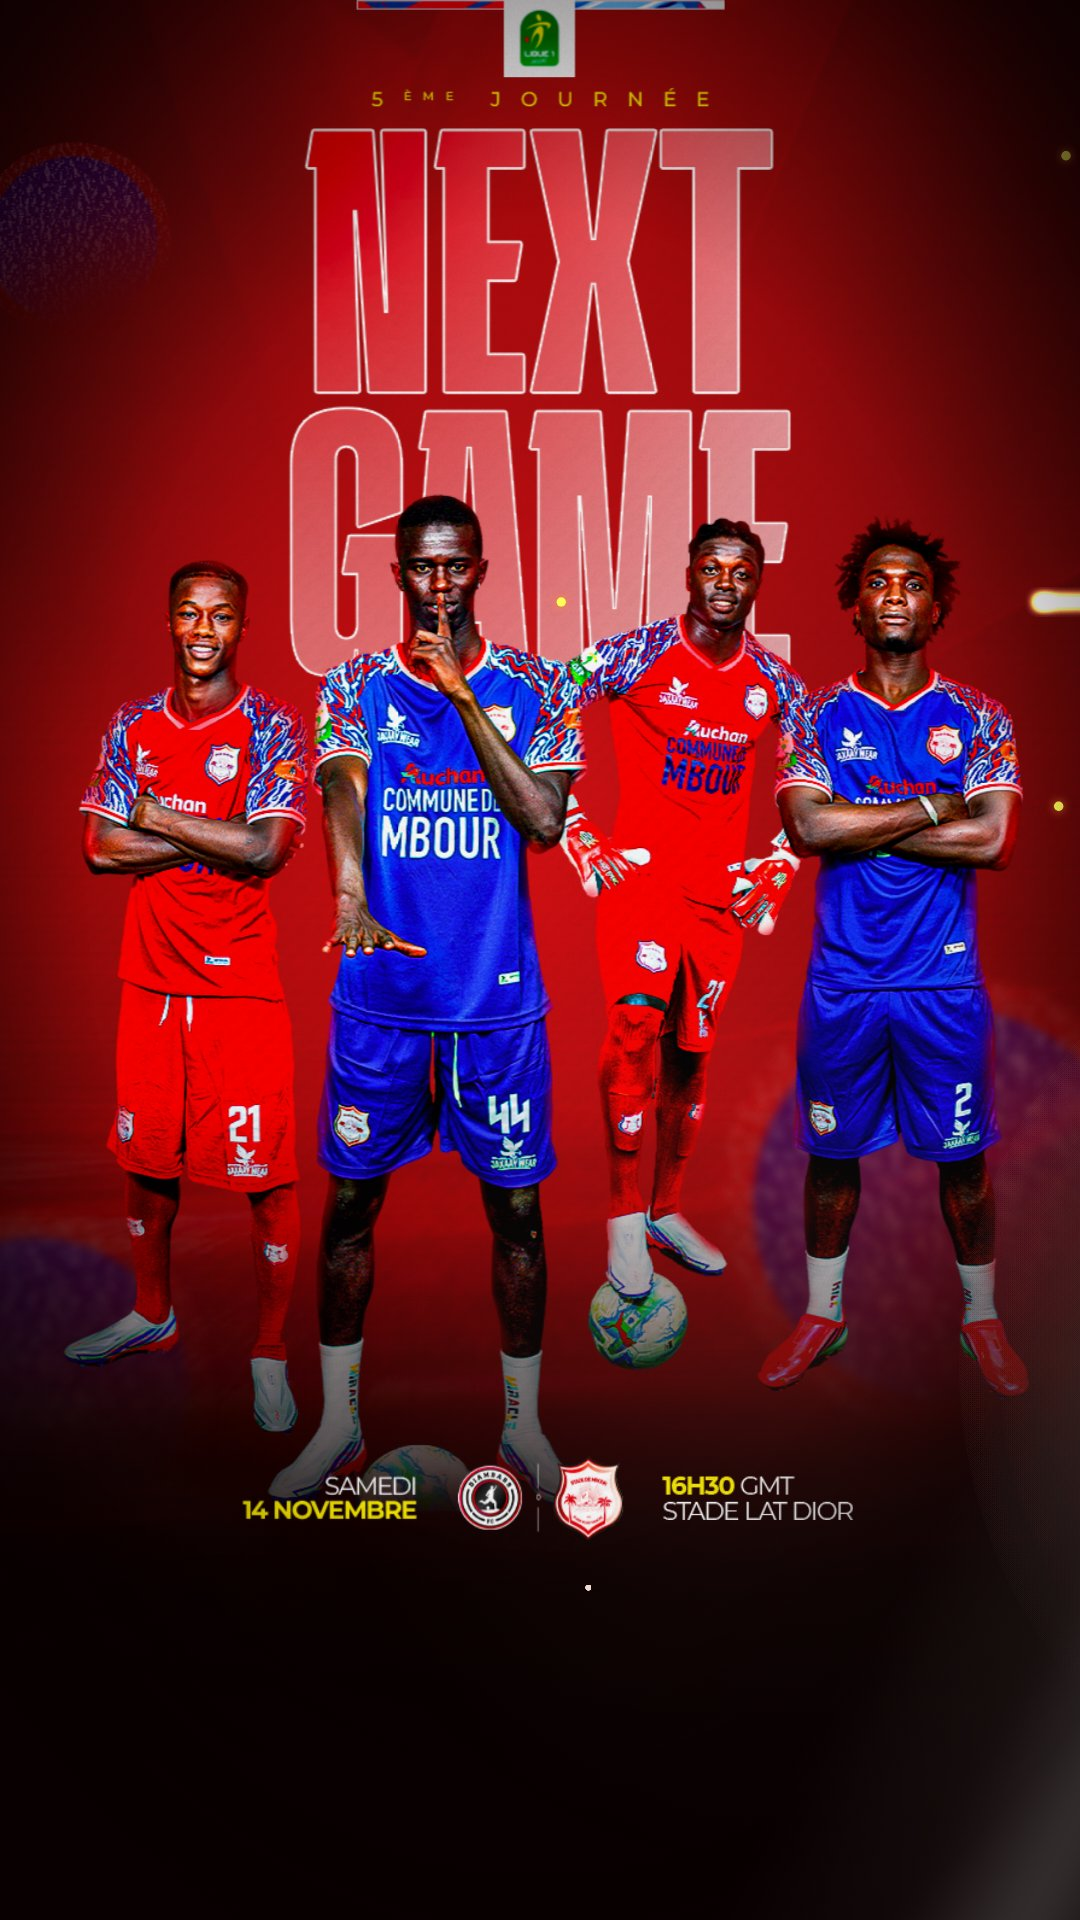
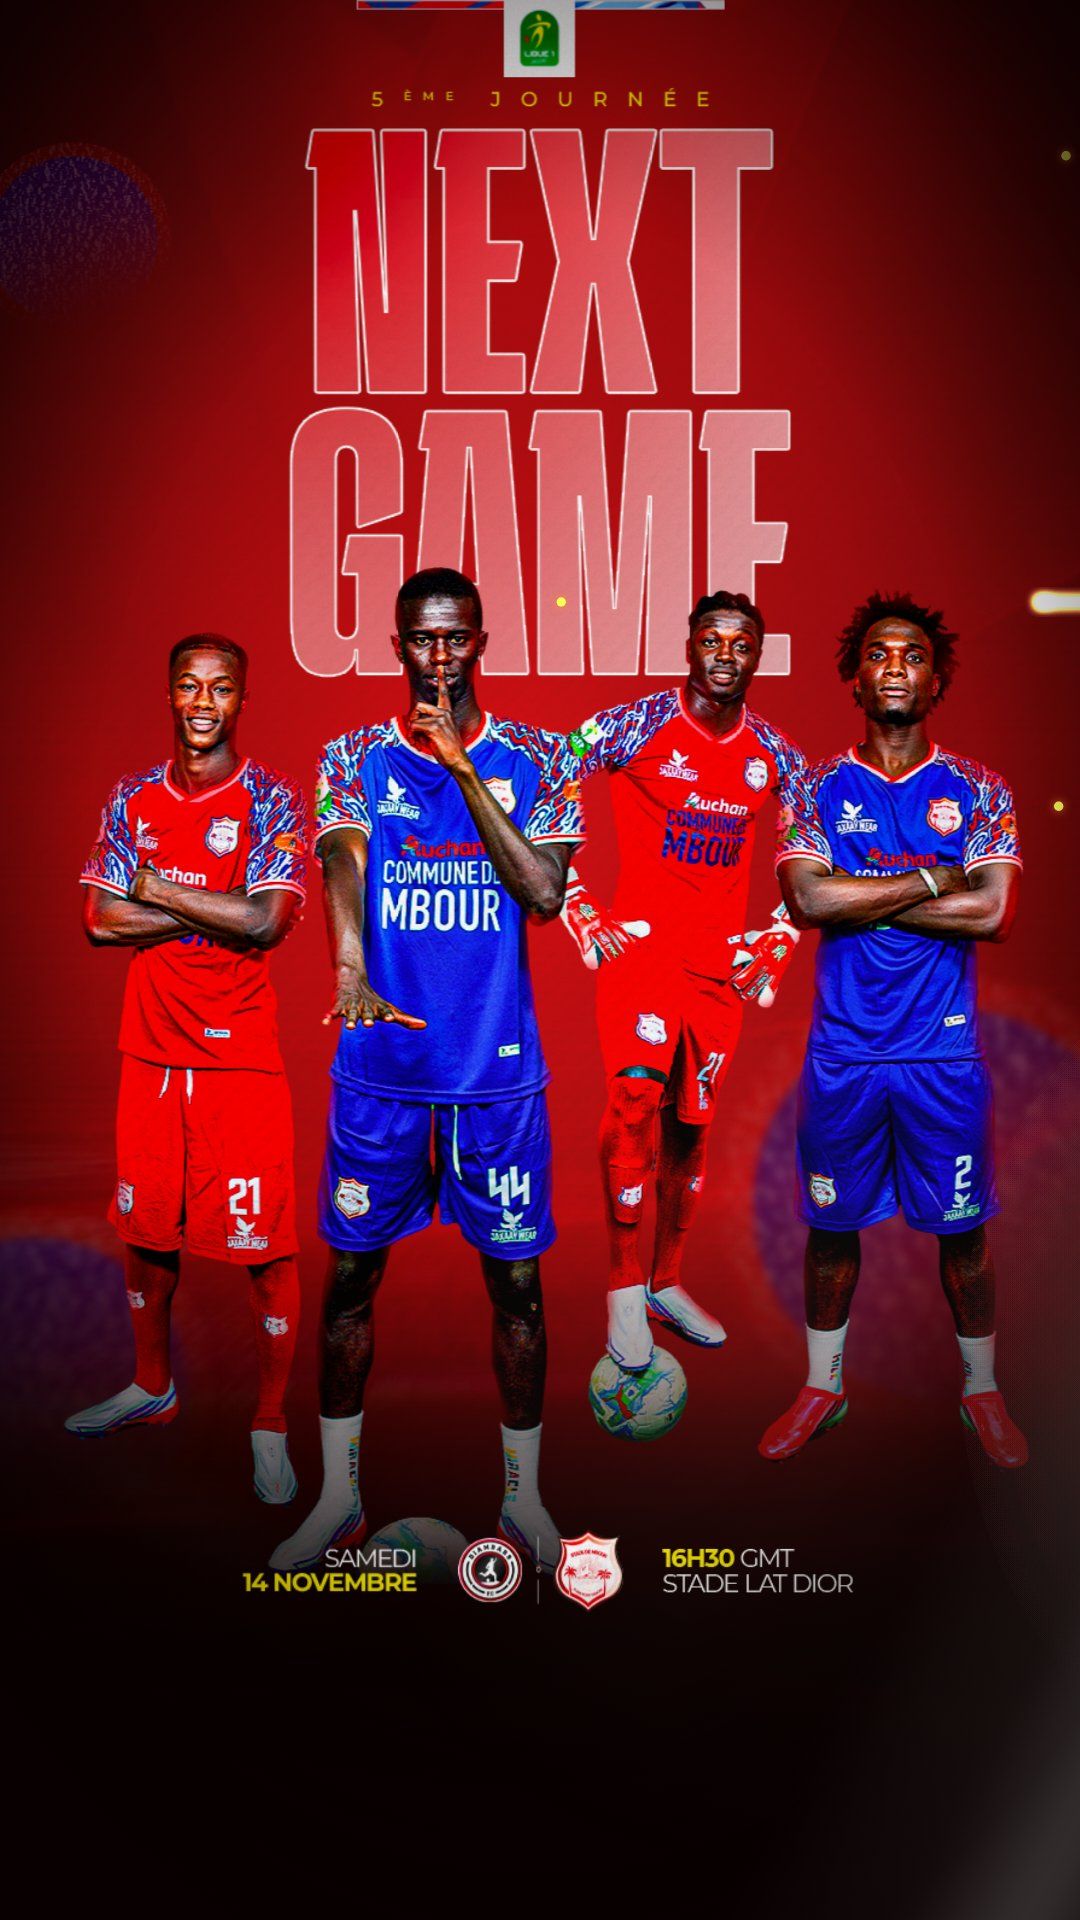
Plan 25-30 s : joueurs et infos descendus encore
Claude-Session: https://claude.ai/code/session_01CJgvnF5VURsKT4vojm1dRz

Changed region(s): [[0.0611, 0.25, 0.9472, 0.8438]]

diff --git a/src/index.html b/src/index.html
@@ -86,7 +86,7 @@ body{font-family:MS,sans-serif;color:#fff;-webkit-font-smoothing:antialiased}
 #r3 .big{color:#fff;font-size:76px}
 
 /* seq 5 : slogan under the poster */
-#slogan{left:0;top:1650px;width:1080px;text-align:center;font:700 40px/1 MS;color:#fff;white-space:nowrap}
+#slogan{left:0;top:1720px;width:1080px;text-align:center;font:700 40px/1 MS;color:#fff;white-space:nowrap}
 #slogan b{color:var(--yellow);font-weight:800}
 </style>
 </head>
@@ -335,29 +335,29 @@ tl.to('#dim',{opacity:0,duration:.3},24.9);
 tl.set('#sphA',{autoAlpha:0},24.98);
 tl.set('#players',{autoAlpha:1},24.98);
 tl.set('#team',{filter:'blur(0px) brightness(1)'},24.98);
-tl.set('#legShade',{y:60},24.98);
+tl.set('#legShade',{y:120},24.98);
 tl.set('#ngImg',{autoAlpha:1,clipPath:'inset(0% 0 0 0)',filter:'blur(0px)',scale:1},24.98);
 tl.to('#flash',{opacity:.9,duration:.04},25.0).to('#flash',{opacity:0,duration:.6},25.04);
 tl.fromTo('#world',{scale:1.08},{scale:1.0,duration:.7,ease:E.in},25.0);
 tl.to(FX,{embers:1,smoke:.6,duration:.4},25);
 tl.fromTo('#team',{x:540-540*1.35,y:-60,scale:1.35},{...FINAL,duration:.7,ease:E.in,immediateRender:false},25.0);
 tl.fromTo('#ngImg',{y:-200,filter:'blur(14px)'},{y:0,filter:'blur(0px)',duration:.6,ease:E.in,immediateRender:false},25.0);
-tl.fromTo('#p1',{x:-260,y:60,filter:'blur(12px)'},{x:0,y:60,filter:'blur(0px)',duration:.55,ease:E.in,immediateRender:false},25.05);
-tl.fromTo('#p4',{x:260,y:60,filter:'blur(12px)'},{x:0,y:60,filter:'blur(0px)',duration:.55,ease:E.in,immediateRender:false},25.05);
-tl.fromTo('#p3',{y:-100,filter:'blur(12px)'},{y:60,filter:'blur(0px)',duration:.55,ease:E.in,immediateRender:false},25.1);
-tl.fromTo('#p2',{y:220,filter:'blur(12px)'},{y:60,filter:'blur(0px)',duration:.6,ease:E.in,immediateRender:false},25.15);
+tl.fromTo('#p1',{x:-260,y:120,filter:'blur(12px)'},{x:0,y:120,filter:'blur(0px)',duration:.55,ease:E.in,immediateRender:false},25.05);
+tl.fromTo('#p4',{x:260,y:120,filter:'blur(12px)'},{x:0,y:120,filter:'blur(0px)',duration:.55,ease:E.in,immediateRender:false},25.05);
+tl.fromTo('#p3',{y:-40,filter:'blur(12px)'},{y:120,filter:'blur(0px)',duration:.55,ease:E.in,immediateRender:false},25.1);
+tl.fromTo('#p2',{y:280,filter:'blur(12px)'},{y:120,filter:'blur(0px)',duration:.6,ease:E.in,immediateRender:false},25.15);
 tl.fromTo('#pSph',{autoAlpha:0,scale:.3},{autoAlpha:1,scale:1,duration:.5,ease:E.in},25.2);
 tl.fromTo('#pBand',{autoAlpha:0,scaleX:0},{autoAlpha:1,scaleX:1,duration:.45,ease:E.in},25.35);
 tl.fromTo('#pL1',{autoAlpha:0,y:-70},{autoAlpha:1,y:0,duration:.45,ease:E.in},25.45);
 tl.fromTo('#p5',{autoAlpha:0,clipPath:'inset(0 50% 0 50%)'},{autoAlpha:1,clipPath:'inset(0 0% 0 0%)',duration:.5,ease:E.in},25.6);
-tl.fromTo('#pClubs',{autoAlpha:0,scale:0,y:60},{autoAlpha:1,scale:1,y:60,duration:.45,ease:E.back},25.85);
-tl.fromTo('#pDate',{autoAlpha:0,x:-120,y:60},{autoAlpha:1,x:0,y:60,duration:.45,ease:E.in},26.05);
-tl.fromTo('#pTime',{autoAlpha:0,x:120,y:60},{autoAlpha:1,x:0,y:60,duration:.45,ease:E.in},26.3);
+tl.fromTo('#pClubs',{autoAlpha:0,scale:0,y:120},{autoAlpha:1,scale:1,y:120,duration:.45,ease:E.back},25.85);
+tl.fromTo('#pDate',{autoAlpha:0,x:-120,y:120},{autoAlpha:1,x:0,y:120,duration:.45,ease:E.in},26.05);
+tl.fromTo('#pTime',{autoAlpha:0,x:120,y:120},{autoAlpha:1,x:0,y:120,duration:.45,ease:E.in},26.3);
 tl.set('#slogan',{autoAlpha:1},26.9);
 tl.fromTo('#slogan',{opacity:0,y:40,filter:'blur(10px)'},{opacity:1,y:0,filter:'blur(0px)',duration:.5,ease:E.in},26.9);
 tl.to('#team',{x:540-540*1.23,y:0,scale:1.23,duration:4.3,ease:'none'},25.7);
 tl.to('#flashR',{opacity:.8,duration:.04},28.5).to('#flashR',{opacity:0,duration:.7},28.54);
-tl.set(FX,{sparkT:28.5,sparkX:540,sparkY:1670},28.4);
+tl.set(FX,{sparkT:28.5,sparkX:540,sparkY:1740},28.4);
 tl.fromTo('#slogan',{scale:1},{scale:1.06,duration:.12,yoyo:true,repeat:1,ease:'power2.out'},28.5);
 tl.to('#world',{x:7,duration:.04,yoyo:true,repeat:5,ease:'none'},28.5);
 tl.set({},{},30);
